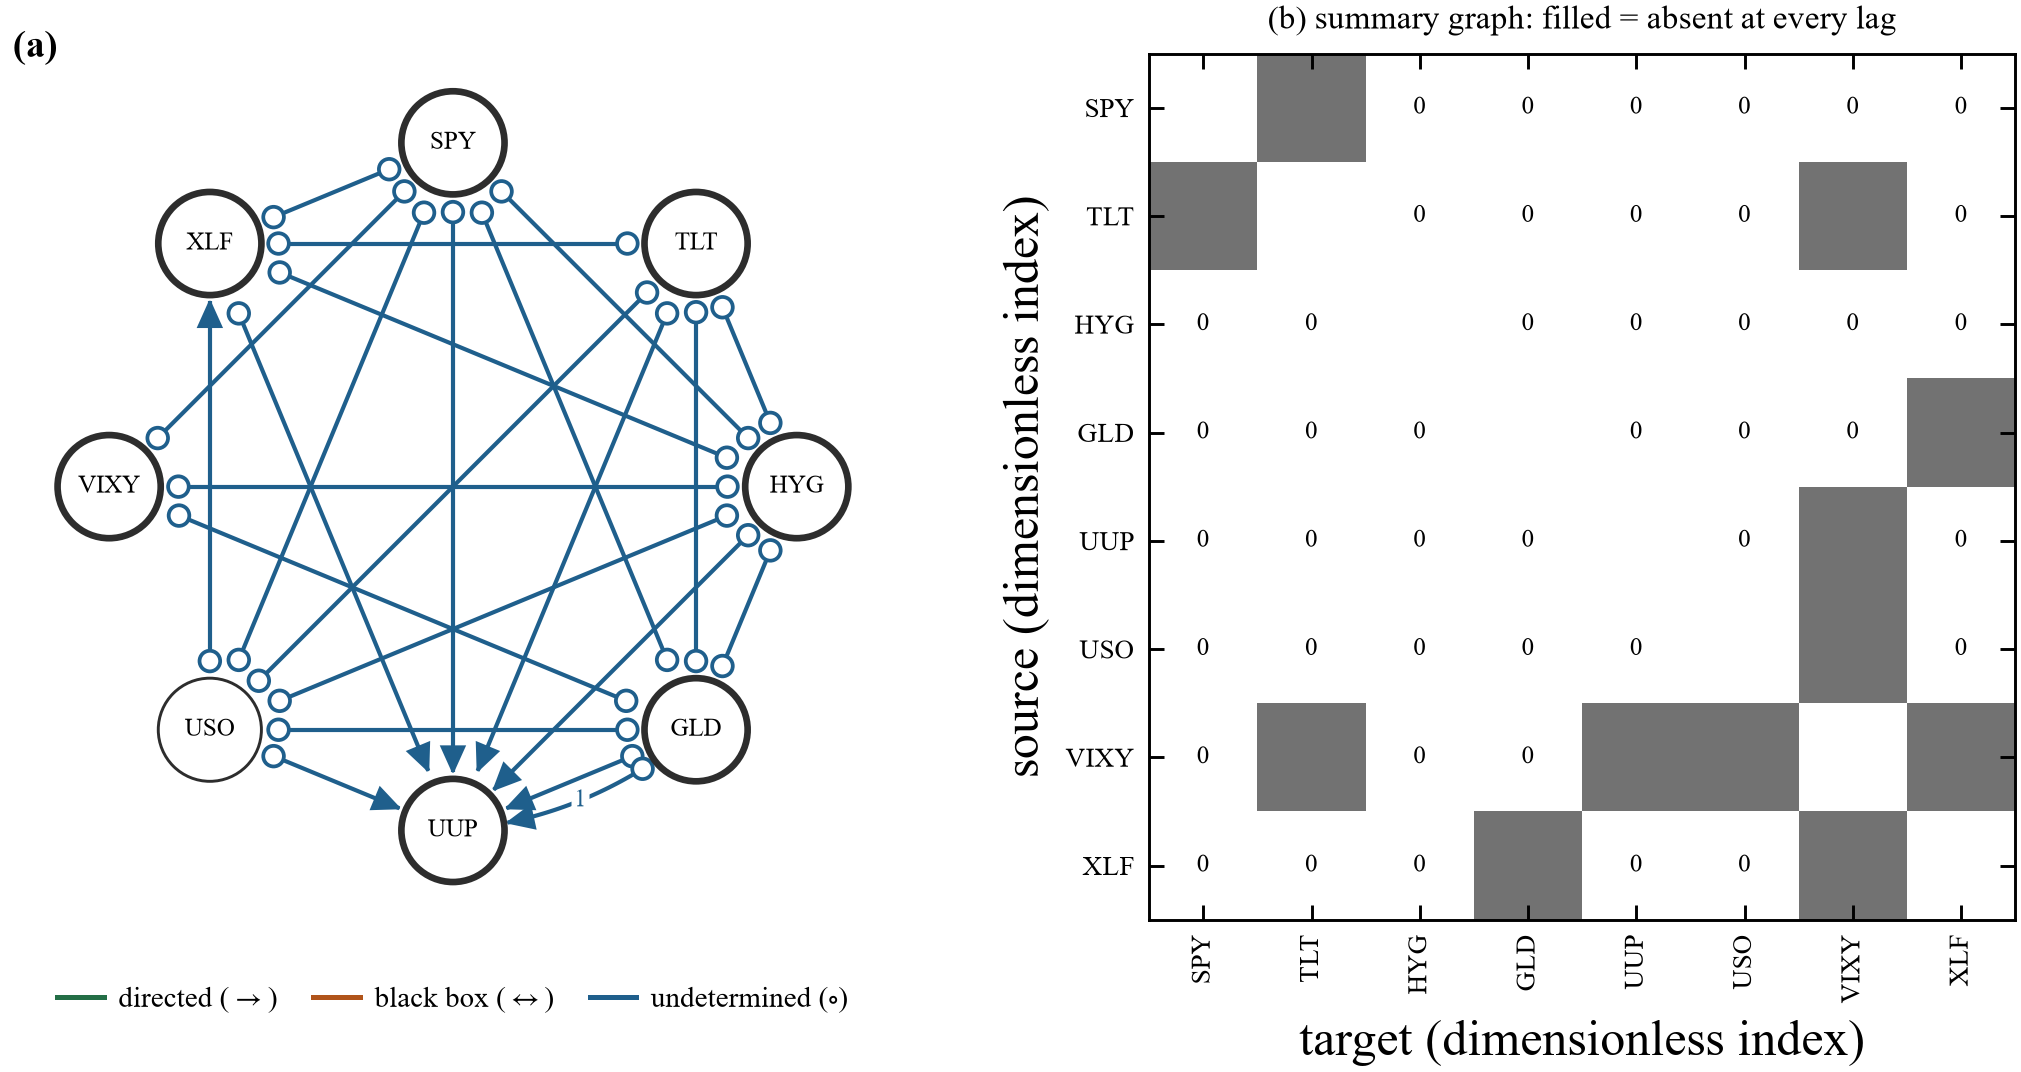
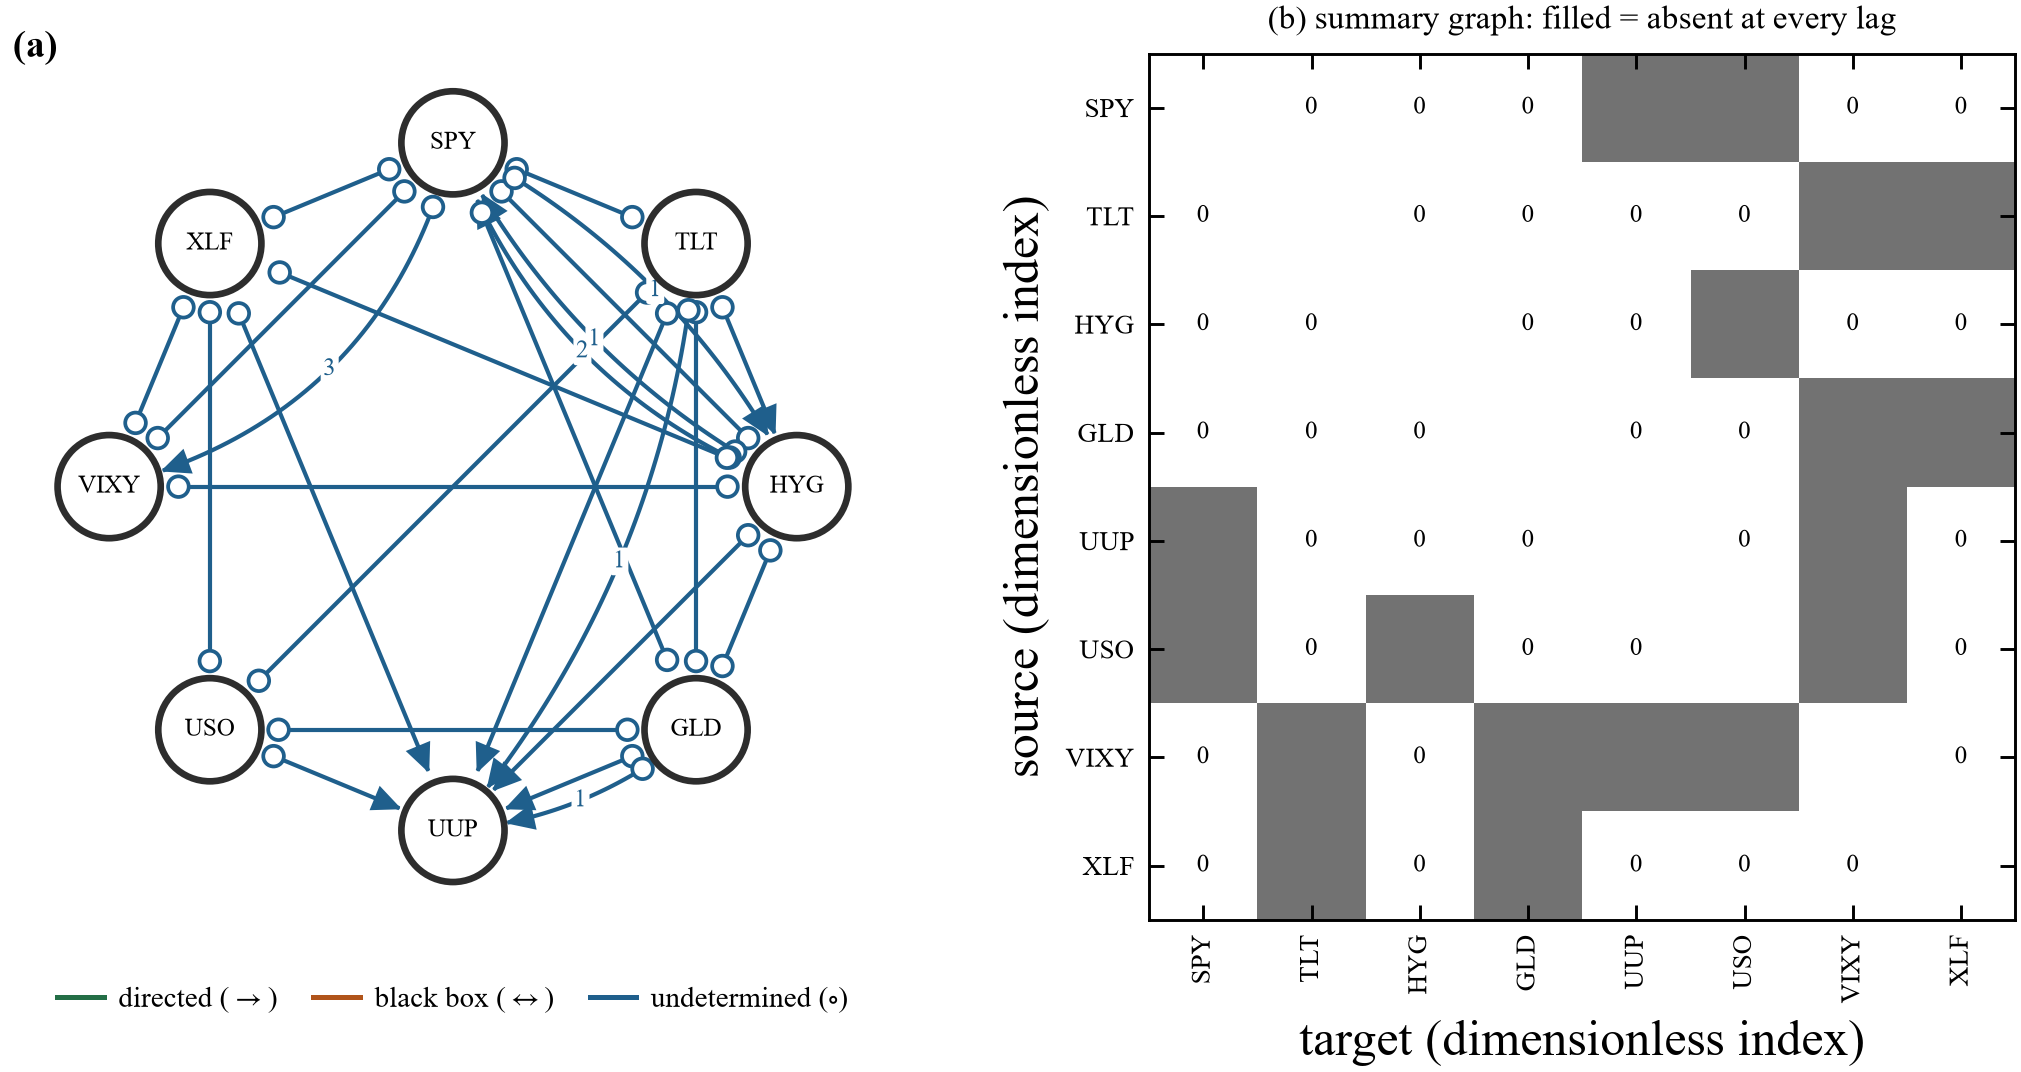
Update results to the full-size cluster runs
Numbers and figures now come from the full runs (30 to 50 simulations per
validation setting, stability reruns for every market graph). The stock-panel
section is withdrawn until its estimates are corrected against a shuffled
baseline.

diff --git a/README.md b/README.md
@@ -33,8 +33,9 @@ links, stability under subsampling and aggregation, and bootstrap intervals.
 
 Data: exchange-traded funds (ETFs) across equities, rates, credit,
 commodities, currencies, volatility and crypto; 5-minute bars for two years;
-daily bars for 2007 to 2026; and a panel of 349 US stocks. A nat is the unit
-of information when logarithms are natural (1 nat = 1.44 bits).
+and daily bars for 2007 to 2026. Every number below comes from the full-size
+runs on the cluster, with each structure search repeated on 20 subsamples, two
+other maximum lags and two coarser sampling intervals.
 
 ### Daily data rarely reveal who drives whom
 
@@ -58,17 +59,17 @@ undetermined, arrowheads mark definite directions, numbers mark lags in days.
 (equities with implied volatility, equities with credit, the Treasury curve
 with credit, the dollar with emerging markets and gold) but, consistent with
 the sampling result, almost no directions. 55 of the 66 pairs are unresolved
-at one day.
+at one day. All 13 links that pass false-discovery control appear in every one
+of the 20 subsamples.
 
 ### A microstructure artefact, caught
 
 ![intraday](figures/03_intraday_graph_stale_price_artefact.png)
 
-The same analysis on 5-minute bars, over the last 120 sessions. Almost every
-arrowhead points into the dollar ETF (UUP): all six of its same-bar links and
-a lagged link from gold; the only other one runs from oil to financials. UUP
-has about ten times more stale 5-minute bars
-than the others (4.9 percent against 0.45 percent), and stale prices make an
+The same analysis on 5-minute bars, pooling all 489 sessions. Five of the six
+same-bar arrowheads point into the dollar ETF (UUP), and so do two lagged
+links, from long Treasuries and gold, which appear in every subsample. UUP has
+about ten times more stale 5-minute bars than the others (4.9 percent against 0.45 percent), and stale prices make an
 illiquid instrument lag liquid ones mechanically. The pipeline flags these
 arrowheads as a likely artefact rather than evidence that the dollar is driven
 by the rest.
@@ -87,17 +88,9 @@ period since. The mechanism of SPY, IWM, IEF, GLD, XLF and XLK changes across
 these regimes; EFA, EEM, LQD, HYG, USO, XLE and the VIX show no detectable
 change. Nonlinear links concentrate in the crisis regime (small caps, emerging
 markets, financials) and, for oil to high-yield credit, after 2020. No lagged
-link survives false-discovery control in any regime, which fits weak daily
-predictability in liquid markets.
-
-### Volume and volatility across 349 stocks
-
-![panel](figures/06_volume_volatility_coupling.png)
-
-Stocks treated as repeated samples of one system, estimated day by day from
-October 2023 to September 2026. The coupling from abnormal volume to the next
-day's absolute return is weak most of the time (median 0.0006 nats per day)
-and arrives in bursts; the reverse direction bursts at other times.
+link from one asset to another survives false-discovery control in any regime,
+which fits weak daily predictability in liquid markets. Of the 80 links that
+do survive, 76 appear in at least 80 percent of the subsamples.
 
 ## Validation against known answers
 
@@ -108,27 +101,31 @@ whose true causal structure is known.
 
 Fraction of causal marks (arrowheads and tails) that contradict the true
 structure, on three systems: a hidden common driver, a feedback loop, and a
-feedback loop with some near-vanishing links. This work made no wrong mark at
-any sample size. Two standard baselines made up to 15 percent (LPCMCI) and up
-to 32 percent (SVAR-FCI) wrong marks, and on the feedback systems the SVAR-FCI
-error grew with sample size.
+feedback loop with some near-vanishing links; 30 simulations per point. Over
+all 450 runs this work made 3 wrong marks, each on a link that the
+independence tests had wrongly admitted, and none on the feedback systems. Two
+standard baselines made up to 14 percent (LPCMCI) and up to 35 percent
+(SVAR-FCI) wrong marks, and their error grew with sample size on some
+systems.
 
 ![direction](figures/08_validation_direction_trap.png)
 
 A trap for direction tests: two series share a hidden driver and have no link
 between them, but one is observed with more noise. A standard net
 information-flow score points confidently the wrong way (0.82 to 0.98). The
-test used here reported a false direction in none of 16 trials, and found the
-true direction in 4 of 4 trials where a real one-way link existed.
+test used here reported a false direction in 3 of 200 trials, all of them in
+the equal-noise case where a 5 percent false-alarm rate is expected by design,
+and found the true direction in 50 of 50 trials where a real one-way link
+existed.
 
-Other checks, each against an exact answer:
+Other checks, each against an exact answer, 50 simulations per setting:
 
 | Check | Result |
 |---|---|
-| Coupling strength on a benchmark with known value | within 4 percent of the exact value |
-| Number of planted hidden drivers | inside the reported range in every trial |
-| Recovery of planted hidden drivers | Amari error index 0.008 to 0.036 (0 is perfect) |
-| False alarms for nonlinearity on a linear system | none, over six settings |
+| Coupling strength on a benchmark with known value | within 6 percent of the exact value |
+| Number of planted hidden drivers | inside the reported range in 300 of 300 trials |
+| Recovery of planted hidden drivers | Amari error index 0.009 to 0.034 (0 is perfect) |
+| False alarms for nonlinearity on a linear system | 2 to 14 percent at a nominal 10 percent |
 
 ## Engineering
 
@@ -140,7 +137,8 @@ Other checks, each against an exact answer:
   nodes.
 - High-performance computing: SLURM array jobs on 96-core AMD nodes (Stony
   Brook SeaWulf), with pinned environments and measured run-time and memory
-  budgets for every job.
+  budgets for every job. The full validation and all market studies finish
+  in about an hour of wall time.
 - Profiling found and fixed three problems before they cost cluster time: a
   numpy 2.5 incompatibility in a dependency that crashed every
   nonparametric search, a quadrature that needed more than 18 GB of memory
